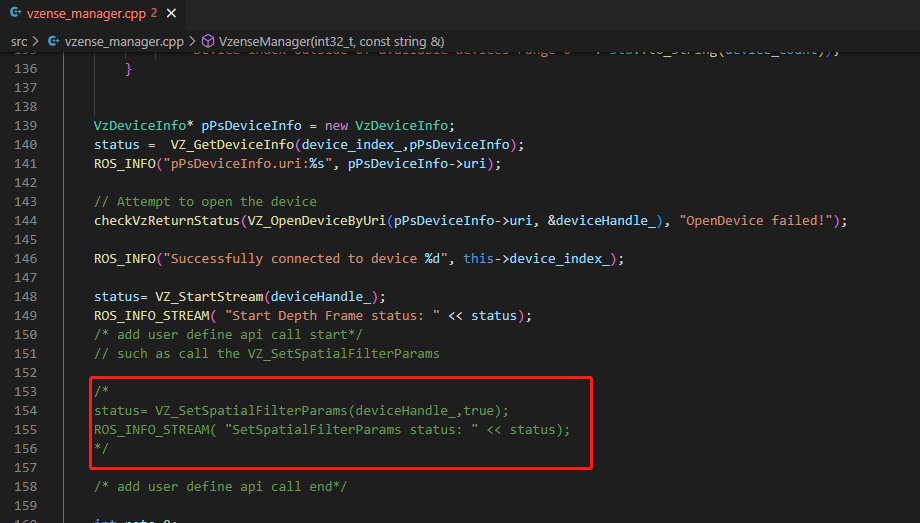
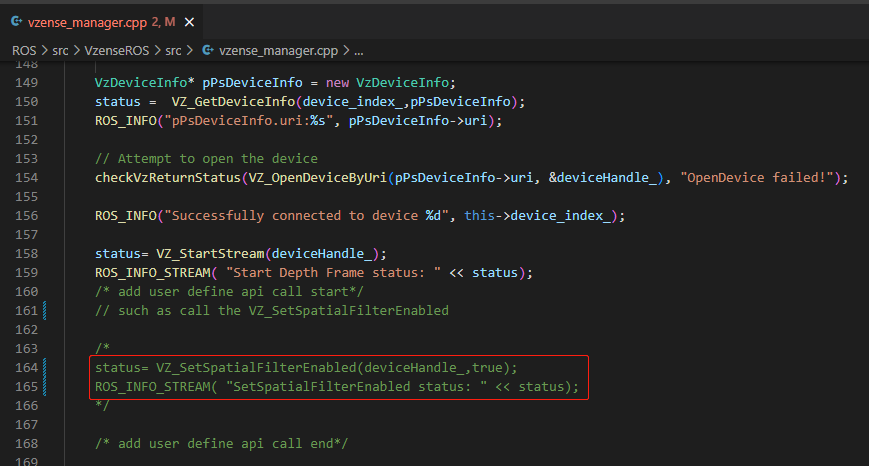
modify ROS with SDK V 1.1.16

Changed region(s): [[0.0, 0.0, 0.9632, 1.0], [0.7457, 0.0901, 0.8078, 0.1202]]

diff --git a/ROS/src/VzenseROS/src/vzense_manager.cpp b/ROS/src/VzenseROS/src/vzense_manager.cpp
@@ -158,11 +158,11 @@ GET:
     status= VZ_StartStream(deviceHandle_);
     ROS_INFO_STREAM( "Start Depth Frame status: " << status);
     /* add user define api call start*/
-    // such as call the VZ_SetSpatialFilterParams
+    // such as call the VZ_SetSpatialFilterEnabled
    
     /*
-    status= VZ_SetSpatialFilterParams(deviceHandle_,true);
-    ROS_INFO_STREAM( "SetSpatialFilterParams status: " << status);
+    status= VZ_SetSpatialFilterEnabled(deviceHandle_,true);
+    ROS_INFO_STREAM( "SetSpatialFilterEnabled status: " << status);
     */
   
     /* add user define api call end*/

diff --git a/ROS2/src/VzenseROS/src/vzense_manager.cpp b/ROS2/src/VzenseROS/src/vzense_manager.cpp
@@ -89,11 +89,11 @@ GET:
     VZ_StartStream(deviceHandle_);
     
     /* add user define api call start*/
-    // such as call the VZ_SetSpatialFilterParams
+    // such as call the VZ_SetSpatialFilterEnabled
    
     /*
-    status= VZ_SetSpatialFilterParams(deviceHandle_,true);
-    RCLCPP_INFO( "SetSpatialFilterParams status: " << status);
+    status= VZ_SetSpatialFilterEnabled(deviceHandle_,true);
+    RCLCPP_INFO( "SetSpatialFilterEnabled status: " << status);
     */
   
     /* add user define api call end*/

diff --git a/ROS2/src/VzenseROS/README.md b/ROS2/src/VzenseROS/README.md
@@ -87,7 +87,7 @@ The vzense_manager publishes messages defined by the [sensor_msgs](http://wiki.R
  
 ## Programming guide
 If developers need to set camera parameters or algorithm switches, please refer to the following process.
-Take calling <b>VZ_SetSpatialFilterParams</b> as an example
+Take calling <b>VZ_SetSpatialFilterEnabled</b> as an example
 - Find the api From **dependencies/Include/VzenseNebula_api.h**
 <p align="center"><img src="./doc/img/step13.png" /></p>
 

diff --git a/ROS/src/VzenseROS/README.md b/ROS/src/VzenseROS/README.md
@@ -98,7 +98,7 @@ The vzense_manager publishes messages defined by the [sensor_msgs](http://wiki.r
 
 ## Programming guide
 If developers need to set camera parameters or algorithm switches, please refer to the following process.
-Take calling <b>VZ_SetSpatialFilterParams</b> as an example
+Take calling <b>VZ_SetSpatialFilterEnabled</b> as an example
 - Find the api From **dependencies/Include/VzenseNebula_api.h**
 <p align="center"><img src="./doc/img/step13.png" /></p>
 
